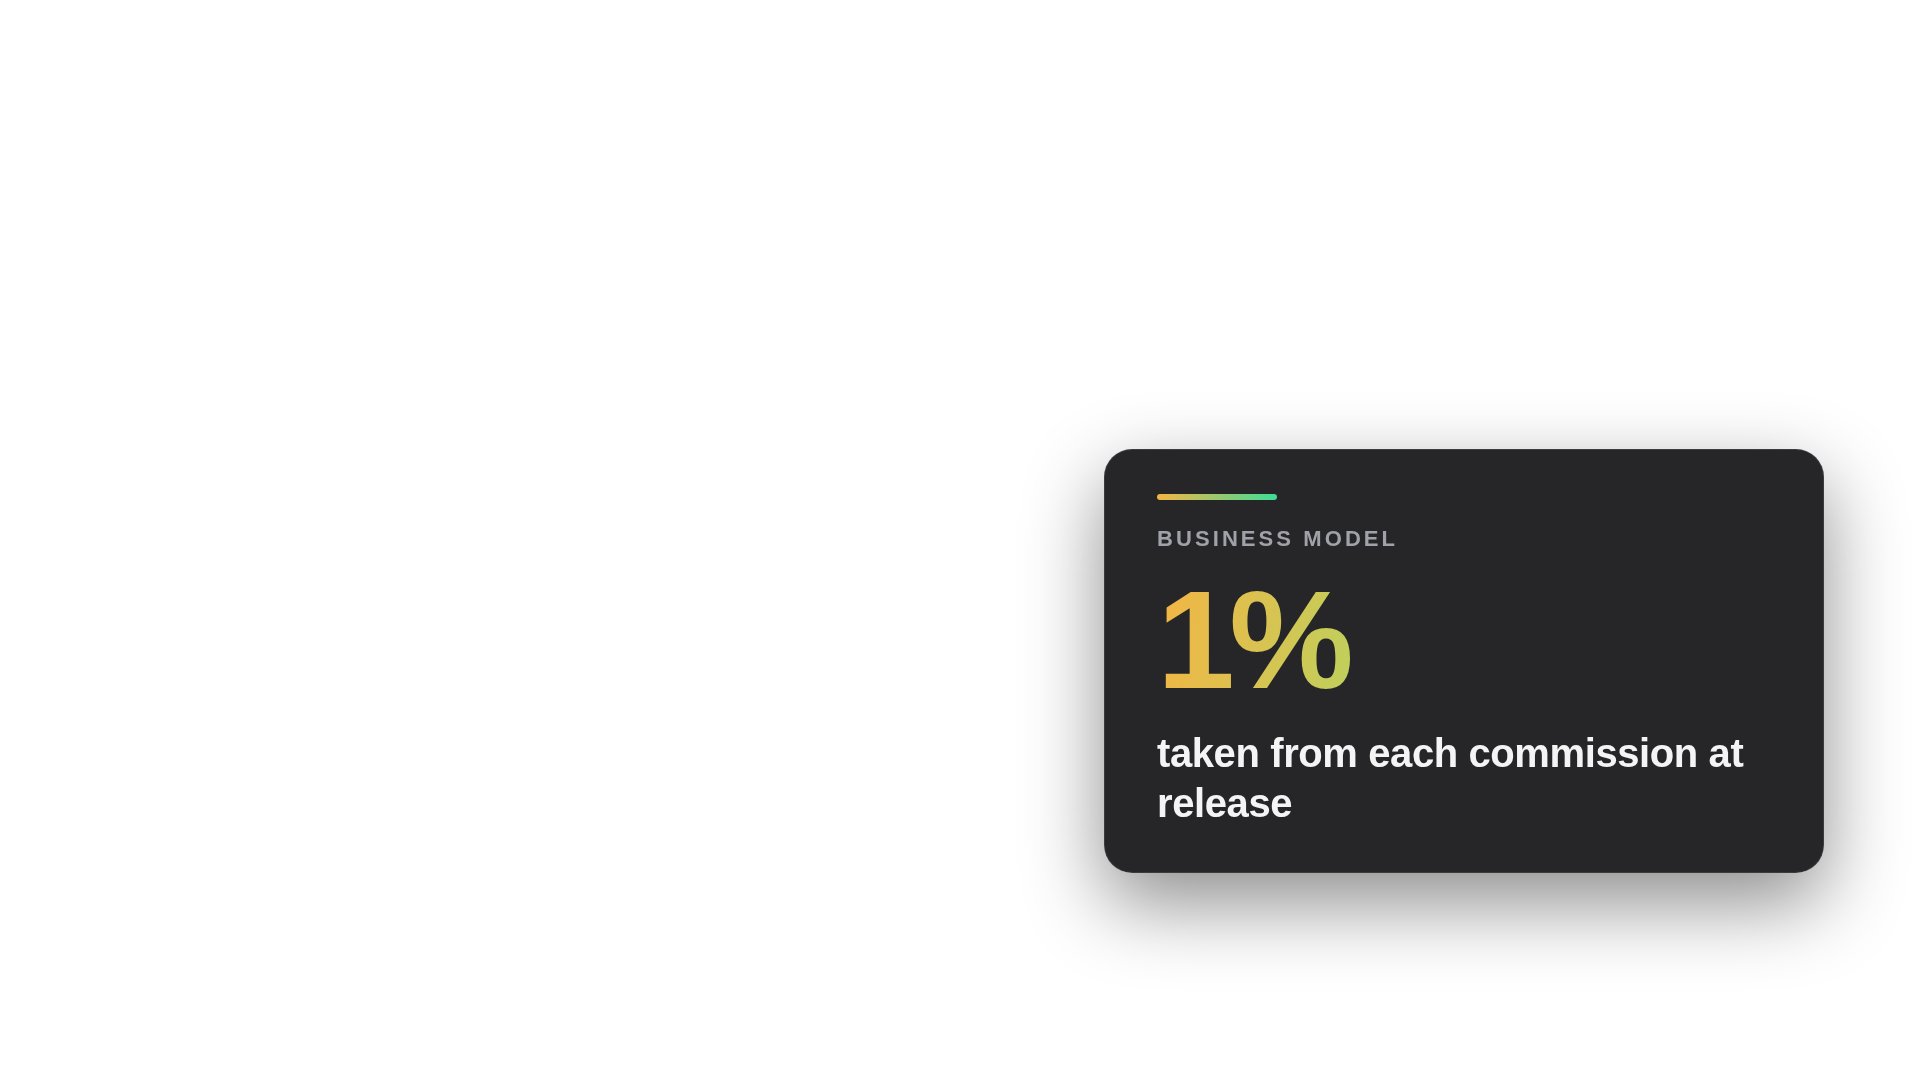
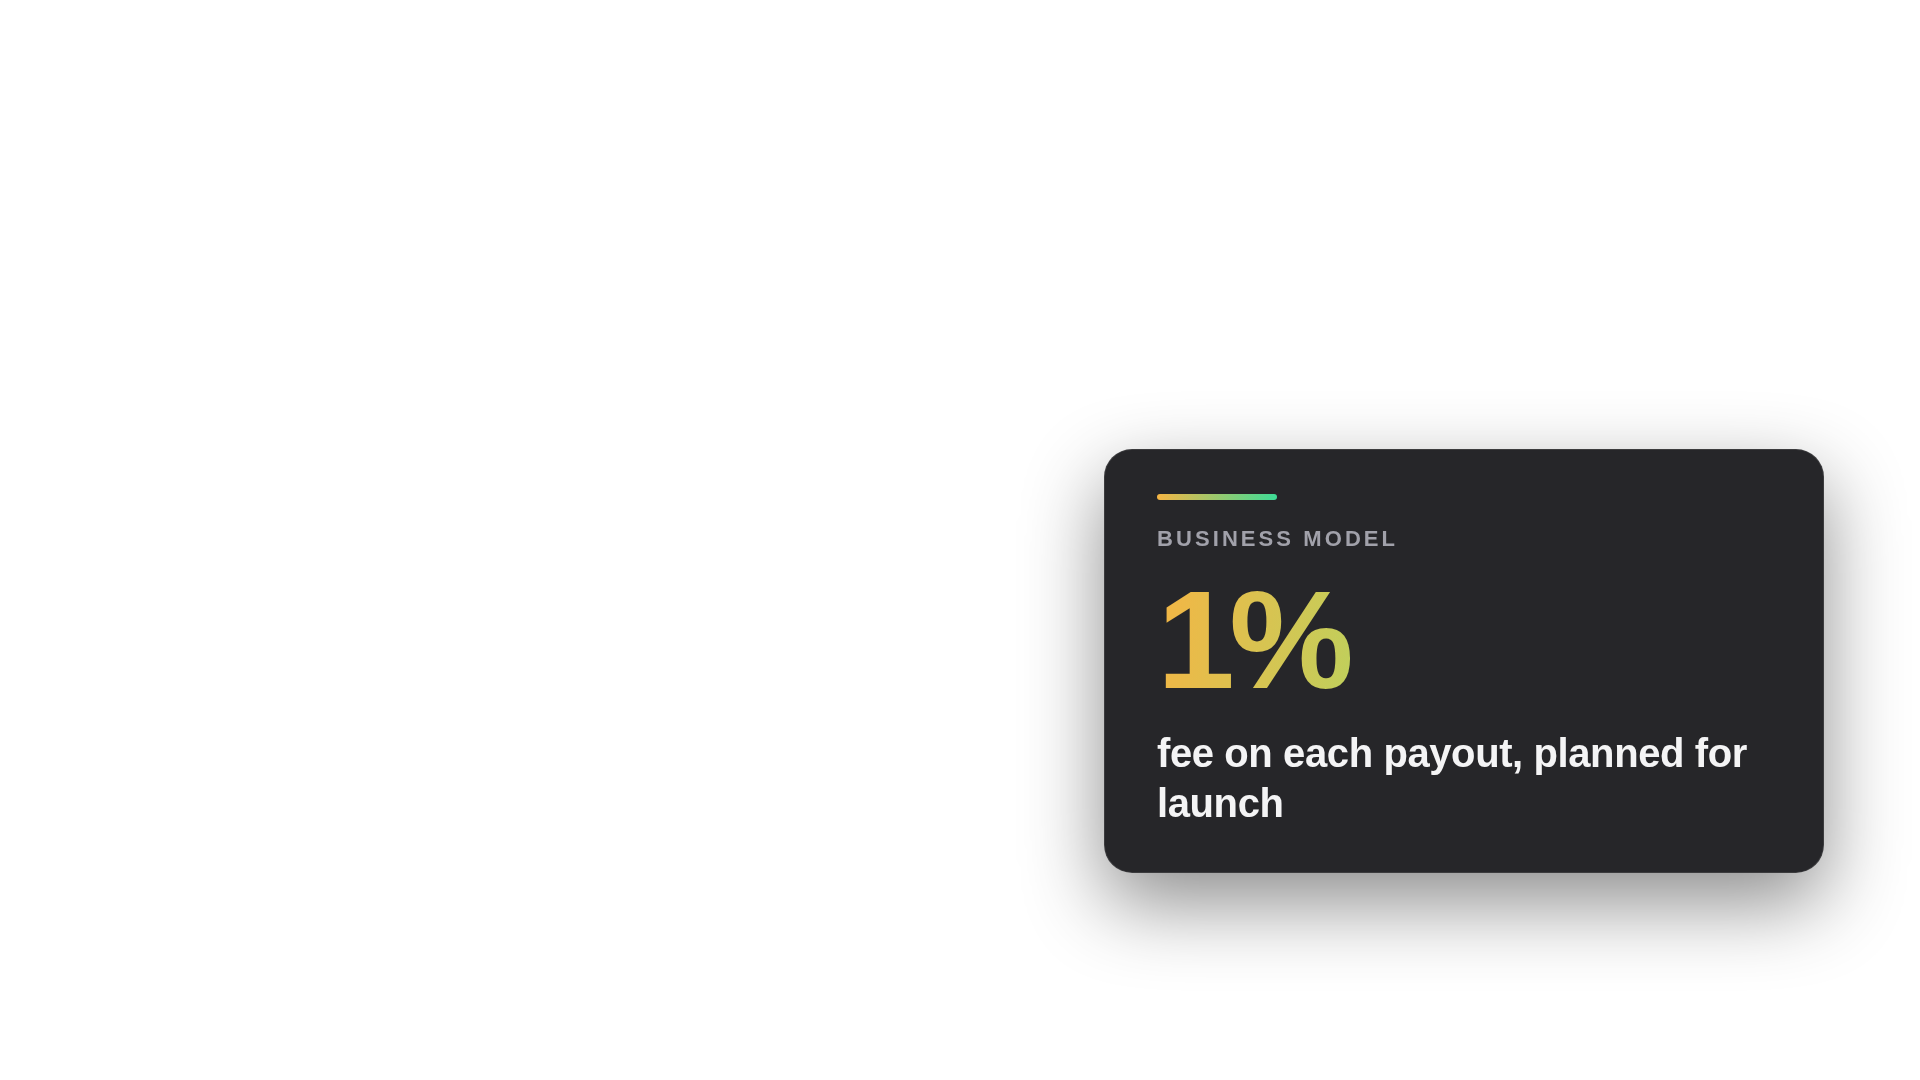
Match site copy to the program live on mainnet

Changed region(s): [[0.5938, 0.6722, 0.9062, 0.7639]]

diff --git a/web/src/app/[lang]/docs/page.tsx b/web/src/app/[lang]/docs/page.tsx
@@ -99,7 +99,7 @@ export default async function Docs({ params }: PageProps<"/[lang]/docs">) {
               ["0", "create_campaign", "brand", "brand, campaign, vault, mint, system", "id, hold, bps, bump, lamports, attestor"],
               ["1", "record_sale", "attestor, payer", "attestor, payer, campaign, vault, commission, system", "order_hash, order_amount, creator, lamports, bump"],
               ["2", "cancel", "attestor", "attestor, campaign, commission, rent_payer", "none, only before release_at"],
-              ["3", "release", "none", "campaign, vault, commission, payee_token, rent_payer, token_program, fee_token", "none, only after release_at; pays amount − 1% to the payee and 1% to the treasury"],
+              ["3", "release", "none", "campaign, vault, commission, payee_token, rent_payer, token_program", "none, only after release_at"],
               ["4", "withdraw", "brand", "brand, campaign, vault, dest, token_program", "amount ≤ vault − reserved"],
               ["5", "sell", "payee, buyer", "payee, buyer, campaign, commission, buyer_token, payee_token, token_program", "price, 0 < price ≤ amount, before release_at"],
             ]}
@@ -123,7 +123,7 @@ export default async function Docs({ params }: PageProps<"/[lang]/docs">) {
           <H id="security">{s.security}</H>
           <ul className="mb-6 list-disc space-y-2 pl-5 text-muted">
             <li>The attestor is trusted to report real sales. The program cannot tell whether an off-chain order happened; it removes the brand&apos;s ability to delay or claw back a commission once recorded.</li>
-            <li>Funds leave the vault only through <C>release</C> (to the payee&apos;s token account, after the window, with 1% to the treasury&apos;s token account for the same mint) and <C>withdraw</C> (the unreserved part, to the brand).</li>
+            <li>Funds leave the vault only through <C>release</C> (to the payee&apos;s token account, after the window) and <C>withdraw</C> (the unreserved part, to the brand).</li>
             <li>Only the legacy SPL Token program is accepted, and every token account is checked for the campaign&apos;s mint.</li>
             <li>A commission address that already holds lamports makes <C>record_sale</C> fail for that order. Derive order hashes with a key only the attestor holds (<C>orderHash(campaign, orderId, key)</C>, HMAC-SHA256) so nobody can predict the next address and block it; the brand console does this with a key derived from the attestor wallet.</li>
             <li>An order can be recorded again after its commission is paid or cancelled, because the account is closed. Only the attestor can record, so this is the attestor&apos;s responsibility.</li>

diff --git a/web/src/components/landing/sections.tsx b/web/src/components/landing/sections.tsx
@@ -230,8 +230,7 @@ export function Early() {
   const [days, setDays] = useState(21);
   const [disc, setDisc] = useState(2.5);
   const get = amount * (1 - disc / 100);
-  const collect = amount * 0.99; // the 1% protocol fee comes out at release
-  const apr = useMemo(() => (get > 0 ? (collect / get - 1) * (365 / days) * 100 : 0), [collect, get, days]);
+  const apr = useMemo(() => (get > 0 ? (amount / get - 1) * (365 / days) * 100 : 0), [amount, get, days]);
   const money = (n: number) => n.toLocaleString("en-US", { minimumFractionDigits: 2, maximumFractionDigits: 2 });
   return (
     <section id="early" className="scroll-mt-20 border-y border-line bg-bg-2/50 py-24">
@@ -246,7 +245,7 @@ export function Early() {
           <div className="rounded-2xl border border-line bg-surface p-6">
             <Slider label={t.early.commission} value={amount} set={setAmount} min={10} max={2000} step={10} show={`${money(amount)} USDC`} />
             <Slider label={t.early.days} value={days} set={setDays} min={1} max={90} step={1} show={`${days}`} />
-            <Slider label={t.early.discount} value={disc} set={setDisc} min={1.5} max={10} step={0.5} show={`${disc.toFixed(1)}%`} />
+            <Slider label={t.early.discount} value={disc} set={setDisc} min={0.5} max={10} step={0.5} show={`${disc.toFixed(1)}%`} />
             <div className="mt-6 grid grid-cols-2 gap-3">
               <div className="rounded-xl border border-early/40 bg-early/10 p-4">
                 <p className="text-xs text-muted">{t.early.youGet}</p>
@@ -257,7 +256,7 @@ export function Early() {
               <div className="rounded-xl border border-line bg-bg-2 p-4">
                 <p className="text-xs text-muted">{t.early.buyerGets}</p>
                 <p className="mt-1 text-2xl font-semibold tracking-tight">
-                  <Counter value={collect} format={money} />
+                  <Counter value={amount} format={money} />
                 </p>
               </div>
             </div>

diff --git a/web/src/i18n/es.ts b/web/src/i18n/es.ts
@@ -43,8 +43,8 @@ const es: Dictionary = {
     idle: "El enlace de un creador trajo un pedido pagado. Regístralo para reservar la comisión.",
     held: "25,00 USDC quedan reservados en la bóveda de la campaña. La marca no puede retirarlos, y una devolución dentro del plazo la cancela.",
     paidBuyer: "Pagada al comprador, que compró la comisión antes. El creador ya tenía el dinero, y la renta de la cuenta volvió a quien la pagó.",
-    paid: "Pagada a la wallet del creador, menos la comisión de protocolo del 1%. La cuenta de la comisión se cerró y devolvió su renta a quien la pagó.",
-    sold: "Vendida por 24,25 USDC, que el creador recibe ahora. El comprador cobra 24,75 USDC (25,00 menos la comisión del 1%) cuando termine el plazo.",
+    paid: "Pagada a la wallet del creador. La cuenta de la comisión se cerró y devolvió su renta a quien la pagó.",
+    sold: "Vendida por 24,25 USDC, que el creador recibe ahora. El comprador cobra los 25,00 USDC completos cuando termine el plazo.",
     daysLeft: "Faltan {n} días",
     closed: "Plazo cerrado",
   },
@@ -116,7 +116,7 @@ const es: Dictionary = {
     days: "Días hasta la liberación",
     discount: "Descuento",
     youGet: "Recibes hoy",
-    buyerGets: "El comprador cobra al liberar, tras la comisión del 1%",
+    buyerGets: "El comprador cobra al liberar",
     apr: "Rentabilidad anual del comprador",
     note: "Se liquida en una sola transacción: el comprador paga al creador y pasa a ser el beneficiario. Nada más cambia en la comisión.",
   },

diff --git a/docs/video/overlays/src/08-early-payout.html b/docs/video/overlays/src/08-early-payout.html
@@ -17,4 +17,4 @@ html,body{width:1920px;height:1080px;background:transparent;overflow:hidden;
 .row{display:flex;align-items:center;gap:28px}
 .node{background:#1C1C21;border:1px solid rgba(255,255,255,.1);border-radius:22px;padding:28px 34px;min-width:300px}
 .arrow{font-size:54px;color:#3DDC97;font-weight:300}
-</style></head><body><div class="card" style="right:96px;bottom:120px;width:720px"><div class="bar"></div><div class="k">Early payout, one transaction</div><div class="row" style="margin-top:24px;gap:22px"><div><div class="m">Creator gets today</div><div style="font-size:84px;font-weight:800" class="grad">24.25</div></div><div class="arrow">→</div><div><div class="m">Buyer collects at release</div><div style="font-size:84px;font-weight:800">24.75</div></div></div><div class="m" style="margin-top:14px">USDC, on a 25.00 commission. 1% protocol fee.</div></div></body></html>
+</style></head><body><div class="card" style="right:96px;bottom:120px;width:720px"><div class="bar"></div><div class="k">Early payout, one transaction</div><div class="row" style="margin-top:24px;gap:22px"><div><div class="m">Creator gets today</div><div style="font-size:84px;font-weight:800" class="grad">24.25</div></div><div class="arrow">→</div><div><div class="m">Buyer collects at release</div><div style="font-size:84px;font-weight:800">25.00</div></div></div><div class="m" style="margin-top:14px">USDC. The buyer earns the discount for waiting.</div></div></body></html>

diff --git a/web/src/i18n/id.ts b/web/src/i18n/id.ts
@@ -43,8 +43,8 @@ const id: Dictionary = {
     idle: "Tautan kreator menghasilkan pesanan yang sudah dibayar. Catat untuk mengamankan komisinya.",
     held: "25,00 USDC diamankan di vault campaign. Brand tidak bisa menariknya, dan refund selama masa berlaku akan membatalkannya.",
     paidBuyer: "Dibayar ke pembeli yang membeli komisi ini lebih awal. Kreator sudah menerima uangnya, dan biaya sewa akun kembali ke yang membayarnya.",
-    paid: "Sudah masuk ke wallet kreator, dikurangi biaya protokol 1%. Akun komisi ditutup dan biaya sewanya kembali ke yang membayar.",
-    sold: "Dijual seharga 24,25 USDC dan langsung diterima kreator. Pembeli menerima 24,75 USDC (25,00 dikurangi biaya 1%) saat masa refund selesai.",
+    paid: "Sudah masuk ke wallet kreator. Akun komisi ditutup dan biaya sewanya kembali ke yang membayar.",
+    sold: "Dijual seharga 24,25 USDC dan langsung diterima kreator. Pembeli menerima 25,00 USDC penuh saat masa refund selesai.",
     daysLeft: "{n} hari lagi",
     closed: "Masa refund selesai",
   },
@@ -116,7 +116,7 @@ const id: Dictionary = {
     days: "Hari sampai cair",
     discount: "Diskon",
     youGet: "Anda terima hari ini",
-    buyerGets: "Pembeli terima saat cair, setelah biaya 1%",
+    buyerGets: "Pembeli terima saat cair",
     apr: "Imbal hasil tahunan pembeli",
     note: "Semuanya selesai dalam satu transaksi: pembeli membayar kreator, lalu pembeli menjadi penerima. Selebihnya, komisi tidak berubah.",
   },

diff --git a/web/src/i18n/en.ts b/web/src/i18n/en.ts
@@ -41,8 +41,8 @@ const en = {
     idle: "A creator's link brought in a paid order. Record it to reserve the commission.",
     held: "25.00 USDC is reserved in the campaign vault. The brand can't withdraw it, and a refund inside the window cancels it.",
     paidBuyer: "Paid to the buyer, who bought the commission early. The creator already had the money, and the account's rent went back to whoever paid it.",
-    paid: "Paid to the creator's wallet, minus the 1% protocol fee. The commission account closed and returned its rent to whoever paid it.",
-    sold: "Sold for 24.25 USDC, paid to the creator right now. The buyer collects 24.75 USDC (25.00 minus the 1% fee) when the window closes.",
+    paid: "Paid to the creator's wallet. The commission account closed and returned its rent to whoever paid it.",
+    sold: "Sold for 24.25 USDC, paid to the creator right now. The buyer collects the full 25.00 USDC when the window closes.",
     daysLeft: "{n} days left",
     closed: "Window closed",
   },
@@ -114,7 +114,7 @@ const en = {
     days: "Days until release",
     discount: "Discount",
     youGet: "You receive today",
-    buyerGets: "Buyer collects at release, after the 1% fee",
+    buyerGets: "Buyer collects at release",
     apr: "Buyer's annualized return",
     note: "It settles in one transaction: the buyer pays the creator, and the buyer becomes the payee. Nothing else about the commission changes.",
   },

diff --git a/web/src/i18n/zh.ts b/web/src/i18n/zh.ts
@@ -43,8 +43,8 @@ const zh: Dictionary = {
     idle: "创作者的链接带来了一笔已付款订单。记录它即可为佣金预留资金。",
     held: "25.00 USDC 已预留在活动金库中。品牌无法提取；若在退款期内退款，这笔佣金会被取消。",
     paidBuyer: "已支付给提前买下这笔佣金的买方。创作者早已拿到钱，账户租金退还给当初的付款方。",
-    paid: "已打入创作者钱包（扣除 1% 协议费）。佣金账户已关闭，租金退还给当初的付款方。",
-    sold: "以 24.25 USDC 卖出，创作者立即收到。买方在退款期结束时收取 24.75 USDC（25.00 扣除 1% 协议费）。",
+    paid: "已打入创作者钱包。佣金账户已关闭，租金退还给当初的付款方。",
+    sold: "以 24.25 USDC 卖出，创作者立即收到。买方在退款期结束时收取完整的 25.00 USDC。",
     daysLeft: "还剩 {n} 天",
     closed: "退款期已结束",
   },
@@ -104,7 +104,7 @@ const zh: Dictionary = {
     days: "距离放款天数",
     discount: "折价",
     youGet: "你今天收到",
-    buyerGets: "买方放款时收到（扣除 1% 费用）",
+    buyerGets: "买方放款时收到",
     apr: "买方年化收益",
     note: "一笔交易完成：买方付款给创作者，并成为新的收款人。佣金的其他内容不变。",
   },

diff --git a/docs/video/overlays/src/14-fee.html b/docs/video/overlays/src/14-fee.html
@@ -17,4 +17,4 @@ html,body{width:1920px;height:1080px;background:transparent;overflow:hidden;
 .row{display:flex;align-items:center;gap:28px}
 .node{background:#1C1C21;border:1px solid rgba(255,255,255,.1);border-radius:22px;padding:28px 34px;min-width:300px}
 .arrow{font-size:54px;color:#3DDC97;font-weight:300}
-</style></head><body><div class="card" style="right:96px;bottom:120px;width:720px"><div class="bar"></div><div class="k">Business model</div><div class="big grad" style="margin:18px 0">1%</div><div class="t">taken from each commission at release</div></div></body></html>
+</style></head><body><div class="card" style="right:96px;bottom:120px;width:720px"><div class="bar"></div><div class="k">Business model</div><div class="big grad" style="margin:18px 0">1%</div><div class="t">fee on each payout, planned for launch</div></div></body></html>

diff --git a/docs/video/SCRIPTS.md b/docs/video/SCRIPTS.md
@@ -38,7 +38,7 @@ About 290 words. Read it at a relaxed pace and it lands at 1:55.
 | 1:30 | Withdraw: try 50, see only 25 allowed | The brand tries to take everything back. It can only withdraw what isn't reserved. The creator's 25 stays locked. |
 | 1:45 | Open the public campaign page | Anyone can see the budget and every open commission, so a creator can check a brand before promoting it. |
 | 1:57 | Switch wallet, Creator desk | Now I'm the creator. My desk shows every commission I'm owed, and when each one is due. |
-| 2:10 | Early payout panel, price 24.25 | If I need the money now, I can sell this commission to a buyer for 24.25 today. The buyer collects 24.75 at release, after the 1% protocol fee. |
+| 2:10 | Early payout panel, price 24.25 | If I need the money now, I can sell this commission to a buyer for 24.25 today. The buyer collects the full 25 at release. |
 | 2:25 | Release on a due commission (0-day window campaign) | When the window closes, release needs no signer. One click, and the USDC lands in my wallet. |
 | 2:40 | Language switcher: Bahasa Indonesia, 中文; theme toggle | It works in four languages, in light and dark, on a phone. |
 | 2:50 | Landing page | Commissions that pay themselves. Commish. |
